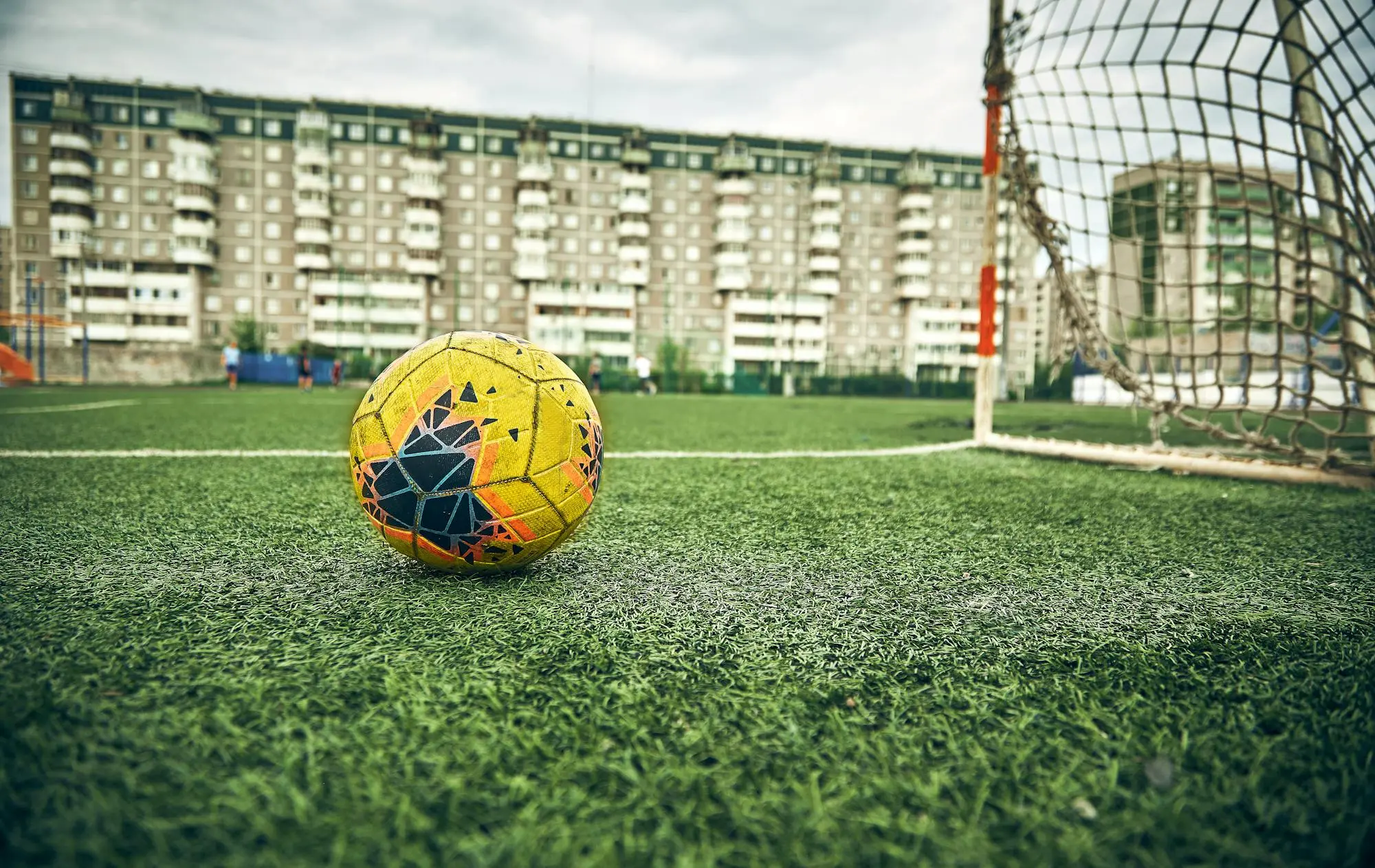
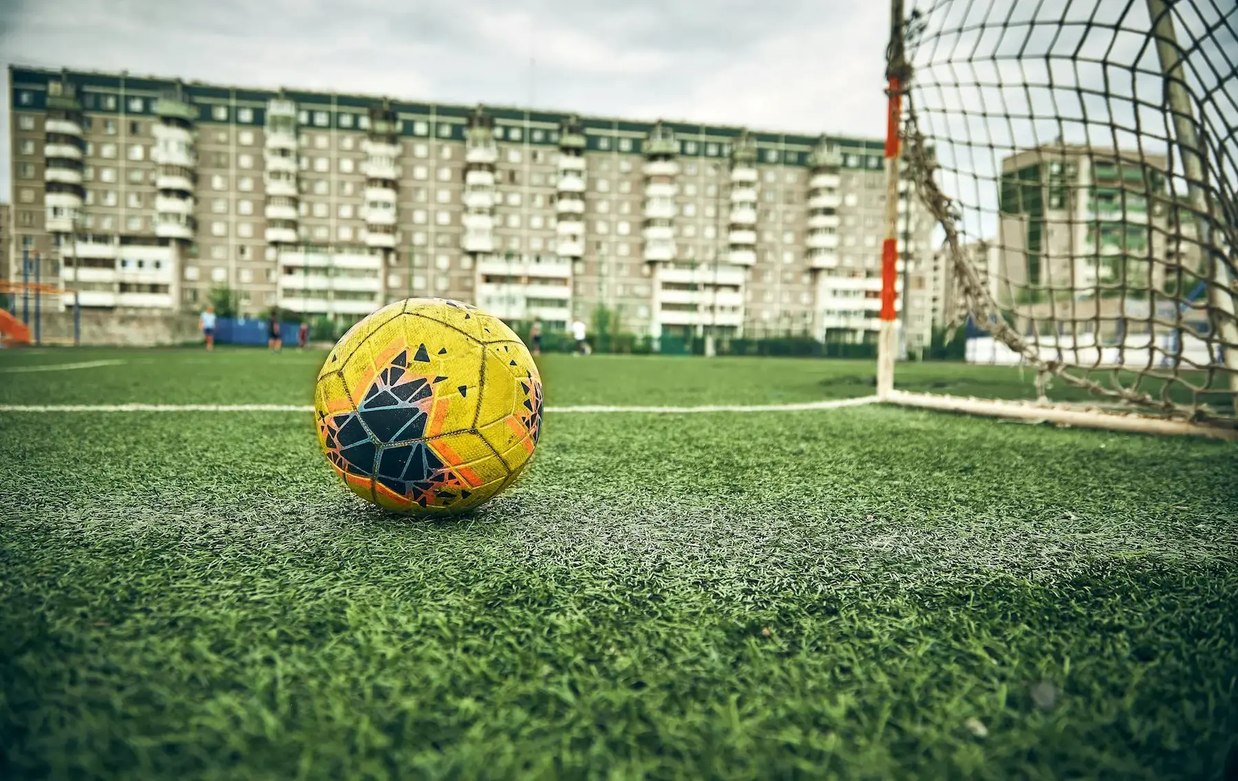
image performance

Changed region(s): [[0.0, 0.6162, 1.0, 0.7702], [0.3111, 0.5546, 0.3422, 0.5854], [0.3111, 0.493, 0.3422, 0.5238]]

diff --git a/components/Footer.jsx b/components/Footer.jsx
@@ -44,7 +44,12 @@ export default function Footer() {
   return (
     <section className=" w-full h-auto flex flex-col justify-center items-center space-y-12 bg-black ">
         <div className="mt-5 relative">
-            <Image src="/logo.webp" loading="lazy" alt="Tsaava Individual Academy" width={879} height={414} className=" w-50.75 lg:w-60.75 lg:h-28.5" />
+            <Image src="/logo.webp" loading="eager" alt="Tsaava Individual Academy"
+              fetchPriority="high"
+             width={355}
+             height={167}
+             sizes="(max-width: 1024px) 213px, 355px" 
+             className=" w-50.75 lg:w-60.75 lg:h-28.5" />
         </div>
         <div className="flex flex-col justify-center items-center gap-6 md:flex md:flex-row md:gap-10">
              {navLinks.map(({ title, href }) => (
